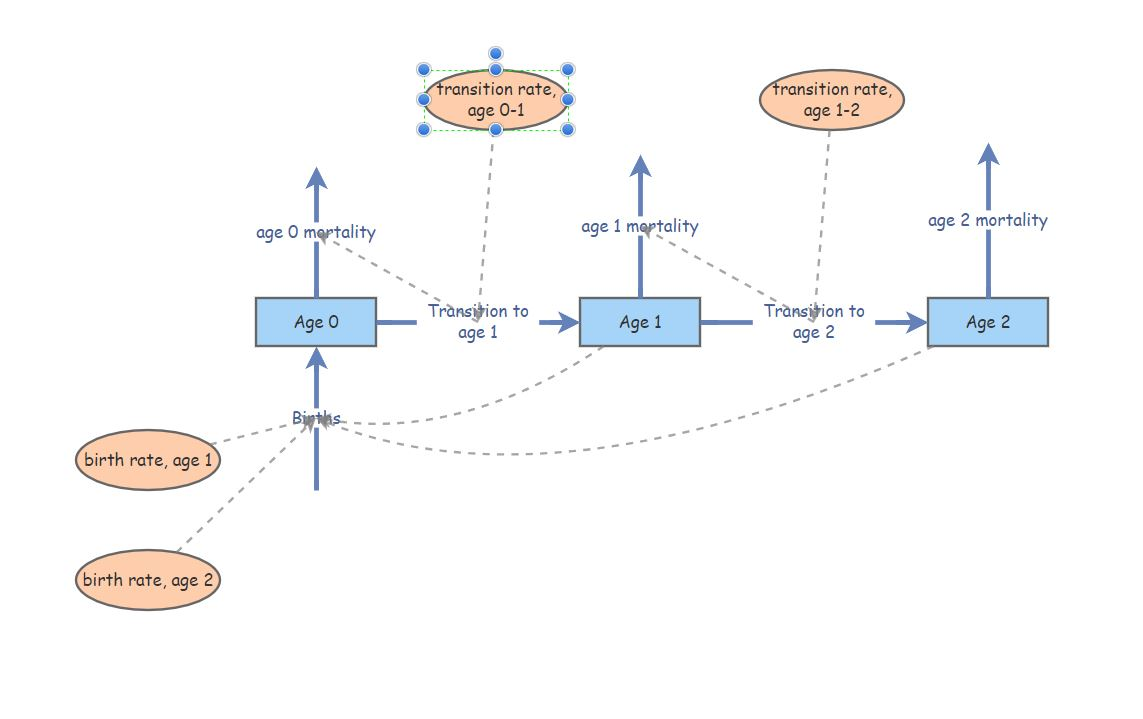
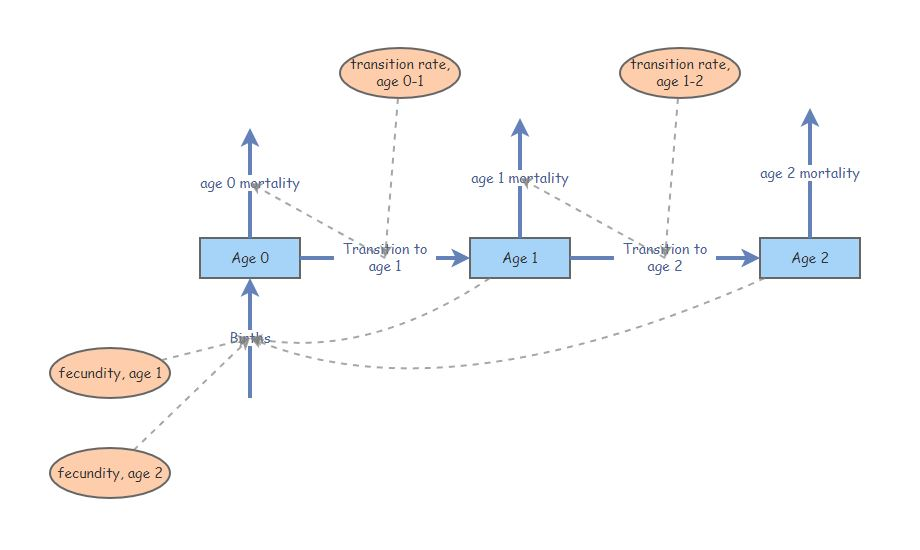
minor

diff --git a/LAB3.html b/LAB3.html
@@ -575,7 +575,7 @@ div.tocify {
 <p><img src="IM7.jpg" /></p>
 <ol start="6" style="list-style-type: decimal">
 <li><p>Parameterize your new age-structured population!</p>
-<p>6a. For births, make new variables called <em>Birth rate, age 1</em> and <em>Birth rate, age 2</em>, representing the per-capita reproductive rate for age 1 and age 2, respectively. Draw links from these variables to <em>Births</em>, and set these variables at 1.3 and 1.6, respectively. Click on the equation editor for <em>Births</em> and set the equation appropriately (see questions below)</p>
+<p>6a. For births, make new variables called <em>Fecundity, age 1</em> and <em>Fecundity, age 2</em>, representing the per-capita reproductive rate for age 1 and age 2, respectively. Draw links from these variables to <em>Births</em>, and set these variables at 1.3 and 1.6, respectively. Click on the equation editor for <em>Births</em> and set the equation appropriately (see questions below)</p>
 <p>6b. For the transitions, make new variables representing the per-capita transition rates, called <em>Transition rate, Age 0 to 1</em> and <em>Transition rate, Age 1 to 2</em>. Draw links to the appropriate flows, and set these rates at 0.45 and 0.35, respectively. NOTE: these transition rates could also be called “survival rates”<br />
 6c. For the mortality rates, note that all individuals in the <em>Age 0</em> stock must either transition to <em>Age 1</em> or die (mortality rates are 1 minus the corresponding transition rate). In addition, all individuals in the <em>Age 2</em> stock must die- there is no <em>Age 3</em> class! Now click on the equation editors for the mortality rates, and specify the mortality rates appropriately.</p></li>
 <li><p>For each flow in the model, use the equation editor to specify the appropriate equations.</p></li>
